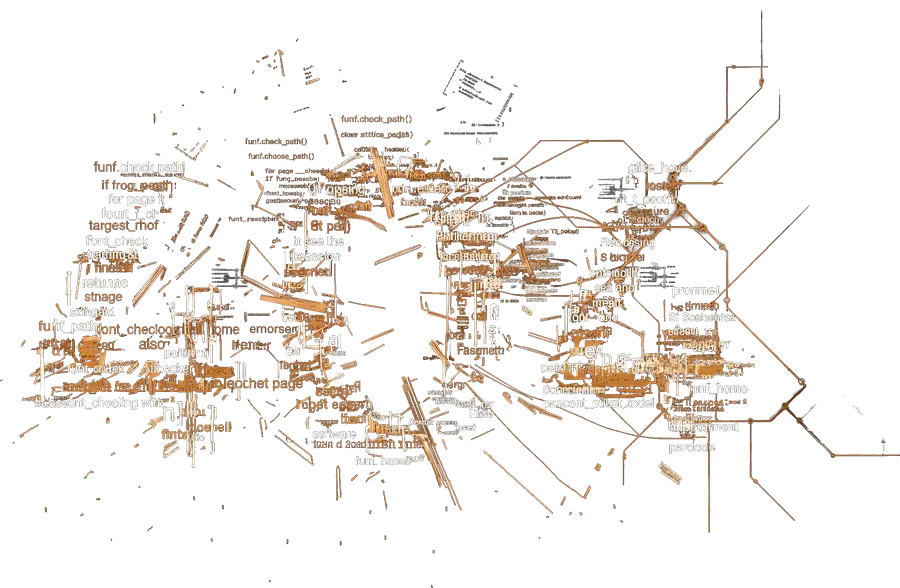
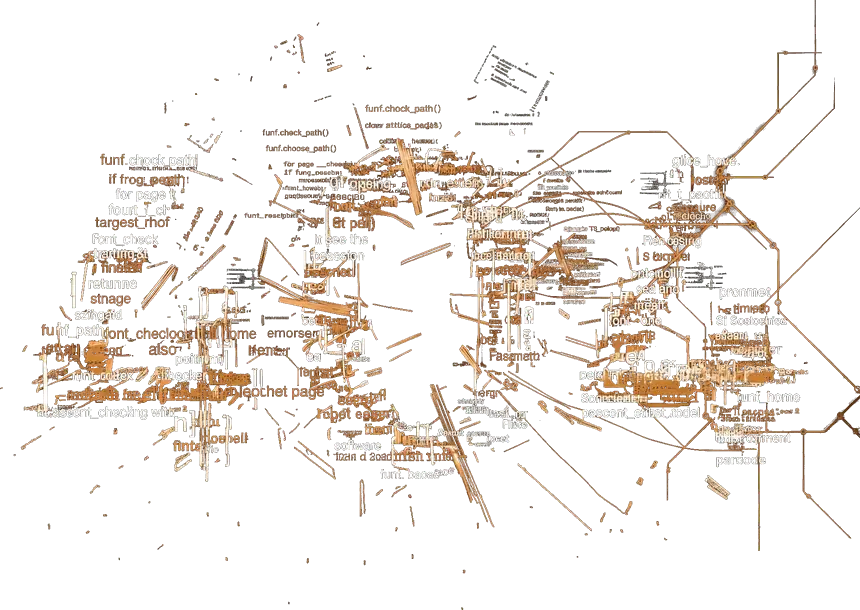
Centre the 404 artwork on its mass, and drop the numeral
Two things, and the first was my mistake rather than the file's.

The image looked shifted left because I had trimmed it to its content's bounding
box. That box is not the picture: a few thin trace lines reach further right than
anything else and stretch it, so the dense cloud ended up left of the middle of
it — measured, the outer fifth of the width carried 3.7% of the alpha mass while
the band from 10% to 80% carried the rest.

The guess in the report was that I had cropped the right and not the left; it was
the other way round, 388px off the left and 67 off the right, because that is
where the content began and ended. Cropping the same amount from each side would
not have helped either, since the asymmetry is in where the mass sits rather than
in what was removed.

So it is now cropped symmetrically about the midpoint of the span holding the
middle 90% of the mass. Centroid and median both still get pulled by those thin
lines; ignoring 5% at each end is what matches where the eye puts the blob. Every
candidate agreed the visual centre was left of geometric — 44.7% to 48.3% — and
after the crop it reads 49.9% on both axes with 99.6% of the mass kept. In the
page it now sits 0px off the field's centre with a symmetric 65px overhang each
side, which is what makes it read as continuing past the frame rather than as
sliding out of one.

Re-encoding at 860 wide, which is 1.01x the 850 it actually renders at, brings it
[…]

diff --git a/src/app/not-found.tsx b/src/app/not-found.tsx
@@ -1,35 +1,10 @@
 import type { Metadata } from "next";
-import { JetBrains_Mono } from "next/font/google";
 import Image from "next/image";
 import Link from "next/link";
-import { CodeNumeral } from "@/components/code-numeral";
 import { PageTexture } from "@/components/page-texture";
 import { SiteBackground } from "@/components/site-background";
 import { manrope } from "./fonts";
 import "./globals.css";
-
-/**
- * This is the one page whose subject is code that didn't resolve, so it is set in
- * the face people write paths in. Cyrillic is included because the copy
- * alternates between two languages and one of them needs it — Latin-only would
- * drop the Ukrainian face to a fallback halfway through a crossfade.
- *
- * `preload: false` is the part that matters, and it took measuring to find. The
- * app builds to a single CSS chunk, so every @font-face declared anywhere lands
- * in the stylesheet every page loads, and Next emits a preload link for each —
- * which had the home page fetching 40KB of a mono it renders no character of.
- * Moving the declaration out of ./fonts and into this file changed nothing,
- * because the chunk is shared regardless of which module declared it. Without
- * the preload the face is still declared everywhere and fetched only where text
- * actually asks for it, which is here. `display: swap` covers the wait.
- */
-const jetbrainsMono = JetBrains_Mono({
-  subsets: ["latin", "cyrillic"],
-  variable: "--font-jetbrains-mono",
-  display: "swap",
-  weight: ["400", "700"],
-  preload: false,
-});
 
 export const metadata: Metadata = {
   title: "Page not found — Yushko Nazar",
@@ -63,10 +38,7 @@ function Bilingual({ en, uk }: { en: string; uk: string }) {
  */
 export default function NotFound() {
   return (
-    <html
-      lang="en"
-      className={`${manrope.variable} ${jetbrainsMono.variable}`}
-    >
+    <html lang="en" className={manrope.variable}>
       <body>
         {/* Texture first, then the traces over it — the same order the locale
             layout stacks them in. */}
@@ -74,61 +46,41 @@ export default function NotFound() {
         <SiteBackground />
 
         <main className="relative z-10 mx-auto flex min-h-screen w-full max-w-3xl flex-col items-center justify-center px-6 py-20">
-          {/* The debris and the numeral share this box, so the cloud is centred
-              on the thing that broke. Its height is fixed rather than derived
-              from the numeral: the fragments are positioned in percentages, and
-              a box that hugged its text would collapse the whole spread onto one
-              line. Overflow is clipped here rather than on <body>, which would
-              take the page's own scrolling with it. */}
-          {/* `overflow-hidden` belongs here now. It used to live on the generated
-              cloud's own container; replacing that with an image 118% of this
-              box's width left nothing clipping it, and the page gained a
-              horizontal scrollbar. */}
+          {/* The artwork's own box, clipping it. `overflow-hidden` has to be here:
+              the image is wider than this on purpose, so the cloud reads as
+              continuing past the frame, and with nothing clipping it the page
+              gained a horizontal scrollbar. */}
           <div className="relative flex h-[300px] w-full items-center justify-center overflow-hidden sm:h-[380px]">
-            {/* The supplied artwork, keyed and trimmed rather than used as it
-                arrived: it came 2608x1600 and 6.3MB with an opaque painted
-                checkerboard behind it — the alpha channel was there but every
-                pixel in it was 255. Every empty corner topped out at luminance
-                24 while the content runs to 255, with 91% of pixels below 32 and
-                a flat tail above, so the background keys out on a ramp from 24 to
-                48. RGB is left as it was: the antialiased edges keep their
-                dark-mixed colour, which is invisible against a near-black page
-                and saves un-premultiplying every one of them.
+            {/* Keyed, trimmed and centred rather than used as it arrived.
 
-                Held at 70%: it is the floor the number stands on, and at full
-                strength its lettering competed with the number for the eye.
+                It came 2608x1600 and 6.3MB with an opaque painted checkerboard
+                behind it — the alpha channel was there and every pixel in it was
+                255. Every empty corner topped out at luminance 24 while the
+                content runs to 255, with 91% of pixels below 32 and a flat tail
+                above, so the background keys out on a ramp from 24 to 48. RGB is
+                left as it was: the antialiased edges keep their dark-mixed
+                colour, which is invisible against a near-black page and saves
+                un-premultiplying every one of them.
 
-                Wider than its box on purpose, and clipped by it, so the cloud
-                reads as continuing past the frame. */}
+                Trimming to the content's bounding box is what left it looking
+                shifted. The box is stretched by a few thin trace lines reaching
+                further right than anything else, so the dense cloud sat left of
+                the middle of it — measured, the outer fifth of the width carried
+                3.7% of the mass. It is now cropped symmetrically about the
+                midpoint of the span holding the middle 90% of the alpha mass,
+                which puts the visual centre at 49.9% and keeps 99.6% of it.
+
+                Held at 70%: at full strength its lettering asks to be read, and
+                it is a surface rather than a text. */}
             <Image
               src="/404-debris.webp"
               alt=""
               aria-hidden
-              width={900}
-              height={588}
+              width={860}
+              height={610}
               priority
               className="pointer-events-none absolute top-1/2 left-1/2 w-[118%] max-w-none -translate-x-1/2 -translate-y-1/2 opacity-70 select-none"
             />
-
-            {/* Just enough shade for the numeral to sit on, shaped to it rather
-                than to the box. `closest-side` covered the whole field and put
-                out the middle of the cloud — which is the brightest part of it,
-                being where the break happened. An ellipse the size of the number
-                clears the number and leaves the rest lit. */}
-            <div
-              aria-hidden
-              className="pointer-events-none absolute inset-0"
-              style={{
-                background:
-                  "radial-gradient(ellipse 48% 38% at 50% 50%, rgba(5,5,5,0.9) 0%, rgba(5,5,5,0.55) 52%, rgba(5,5,5,0) 82%)",
-              }}
-            />
-
-            {/* The number is a dot matrix of code tokens, not a glyph — see
-                CodeNumeral. `--cell` is the one dial for its size, and `role=img`
-                with a label is what keeps it a "404" to a screen reader instead
-                of sixteen unrelated fragments of syntax. */}
-            <CodeNumeral className="relative [--cell:15px] sm:[--cell:21px]" />
           </div>
 
           {/* Pulled up into the bottom of the cloud, the way the sentence sits
